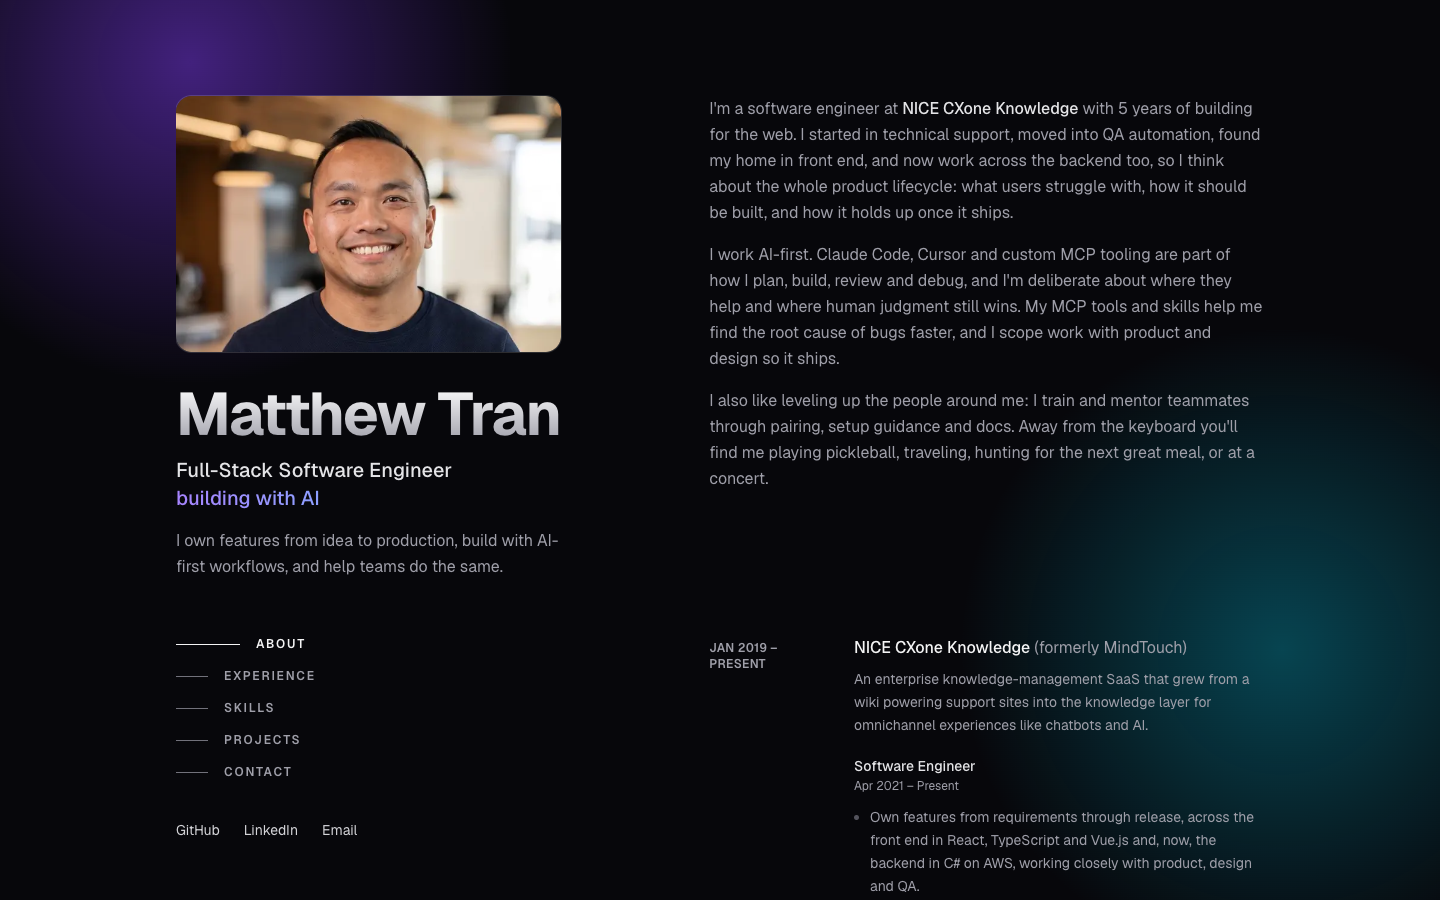
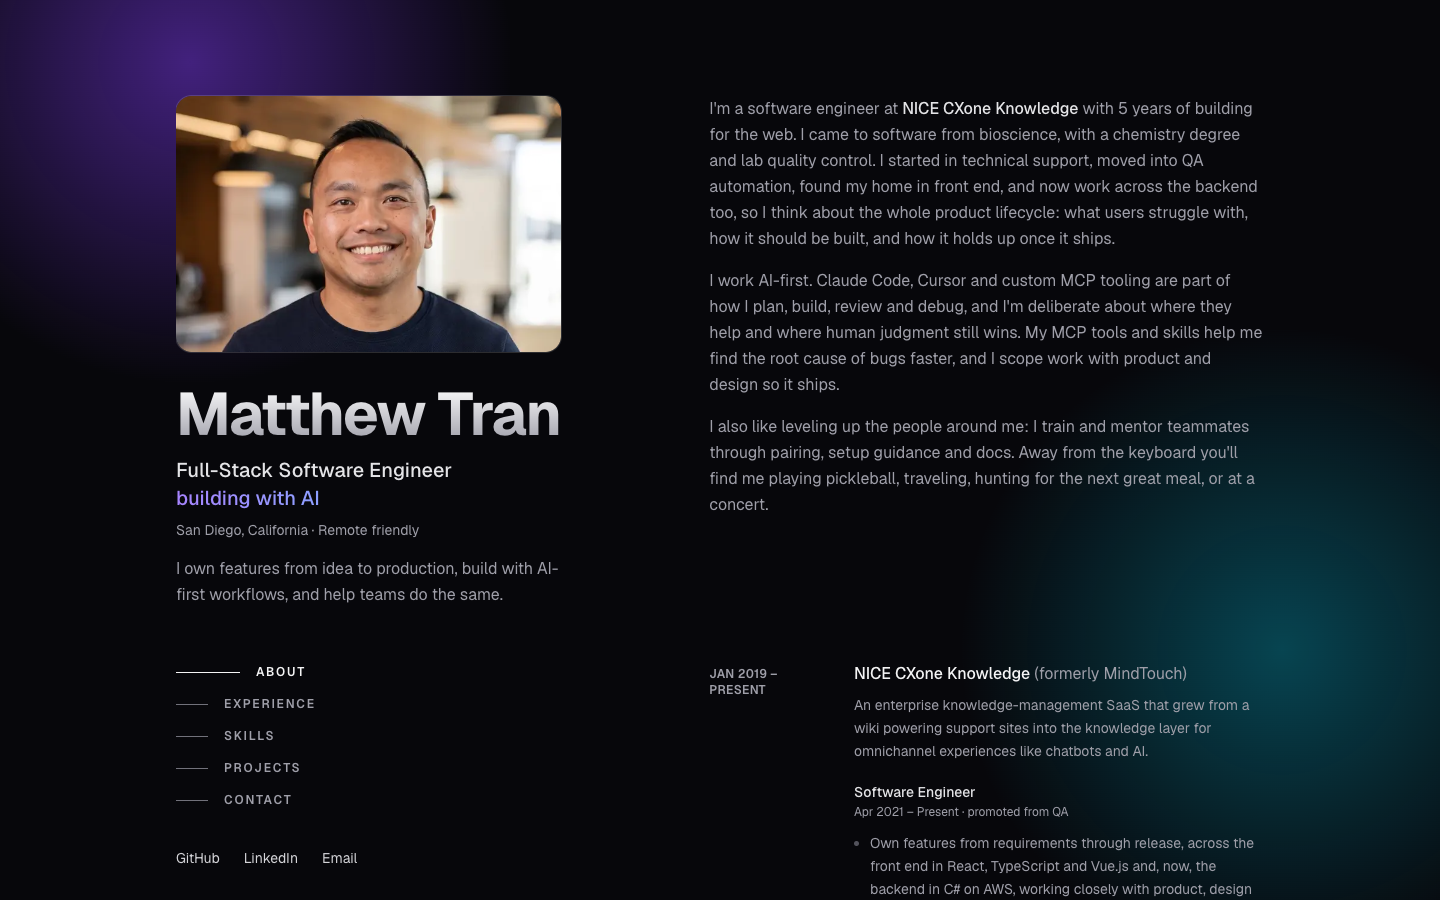
add location, promotion note, bioscience background, clearer filter groups bullet

diff --git a/src/app/page.tsx b/src/app/page.tsx
@@ -21,6 +21,12 @@ const jsonLd = {
   name: profile.name,
   jobTitle: profile.title,
   url: SITE_URL,
+  address: {
+    "@type": "PostalAddress",
+    addressLocality: "San Diego",
+    addressRegion: "CA",
+    addressCountry: "US",
+  },
   email: `mailto:${profile.email}`,
   image: `${SITE_URL}/profile-wide.jpeg`,
   description: profile.description,
@@ -82,10 +88,13 @@ export default function Home() {
               </h1>
             </div>
             <p className="mt-3 text-lg font-medium text-zinc-200 sm:text-xl">
-              {profile.title}{" "}
+              {profile.headline}{" "}
               <span className="block bg-gradient-to-r from-violet-400 to-cyan-400 bg-clip-text text-transparent">
                 building with AI
               </span>
+            </p>
+            <p className="mt-2 text-sm text-zinc-400">
+              {profile.location} · {profile.workStyle}
             </p>
             <p className="mt-4 max-w-sm leading-relaxed">
               I own features from idea to production, build with AI-first
@@ -115,9 +124,10 @@ export default function Home() {
               <p>
                 I&apos;m a software engineer at{" "}
                 <span className="font-medium text-zinc-200">{profile.company}</span>{" "}
-                with 5 years of building for the web. I started in technical
-                support, moved into QA automation, found my home in front end,
-                and now work across the backend too, so I think
+                with 5 years of building for the web. I came to software from
+                bioscience, with a chemistry degree and lab quality control.
+                I started in technical support, moved into QA automation, found
+                my home in front end, and now work across the backend too, so I think
                 about the whole product lifecycle: what users struggle with, how
                 it should be built, and how it holds up once it ships.
               </p>

diff --git a/src/data/experience.ts b/src/data/experience.ts
@@ -31,10 +31,10 @@ export const employers: Employer[] = [
       {
         id: "swe",
         title: "Software Engineer",
-        when: "Apr 2021 – Present",
+        when: "Apr 2021 – Present · promoted from QA",
         bullets: [
           "Own features from requirements through release, across the front end in React, TypeScript and Vue.js and, now, the backend in C# on AWS, working closely with product, design and QA.",
-          "Delivered Filter Groups for UnifiedKnowledgeService using agentic workflows, 3x faster than the estimate, and was highlighted among my team.",
+          "Delivered Filter Groups for UnifiedKnowledgeService, which feeds filtering knowledge (properties, metadata, tags and other fields) to RAG-powered LLM experiences. Built with agentic workflows at roughly 3x speed, and highlighted among my team.",
           "Built MCP tools and skills that track down bug root causes: they open internal endpoints, sign in to sites, query our log tools and reproduce issues on test sites.",
           "Train and mentor teammates on AI-assisted workflows through pairing, setup guidance and documentation.",
         ],

diff --git a/src/data/site.ts b/src/data/site.ts
@@ -2,7 +2,10 @@ export const SITE_URL = "https://matthew-tran.com";
 
 export const profile = {
   name: "Matthew Tran",
-  title: "Full-Stack Software Engineer",
+  title: "Software Engineer",
+  headline: "Full-Stack Software Engineer",
+  location: "San Diego, California",
+  workStyle: "Remote friendly",
   company: "NICE CXone Knowledge",
   email: "matthewhaotran@gmail.com",
   github: "https://github.com/matthewhaotran",

diff --git a/src/data/toolbox.ts b/src/data/toolbox.ts
@@ -3,7 +3,7 @@ export const toolbox = [
   { label: "Back end & cloud", items: ["C#", "AWS"] },
   {
     label: "Testing & CI/CD",
-    items: ["Vitest / Jest", "Selenium", "Jenkins", "Docker"],
+    items: ["Vitest / Jest", "Jenkins", "Docker"],
   },
   { label: "Observability", items: ["Datadog", "Sentry"] },
   {

diff --git a/src/app/opengraph-image.tsx b/src/app/opengraph-image.tsx
@@ -1,7 +1,7 @@
 import { ImageResponse } from "next/og";
 import { profile } from "@/data/site";
 
-export const alt = `${profile.name} | ${profile.title}`;
+export const alt = `${profile.name} | ${profile.headline}`;
 export const size = { width: 1200, height: 630 };
 export const contentType = "image/png";
 

diff --git a/src/app/layout.tsx b/src/app/layout.tsx
@@ -13,7 +13,7 @@ const geistMono = Geist_Mono({
   subsets: ["latin"],
 });
 
-const title = `${profile.name} | ${profile.title}`;
+const title = `${profile.name} | ${profile.headline}`;
 
 export const metadata: Metadata = {
   metadataBase: new URL(SITE_URL),
